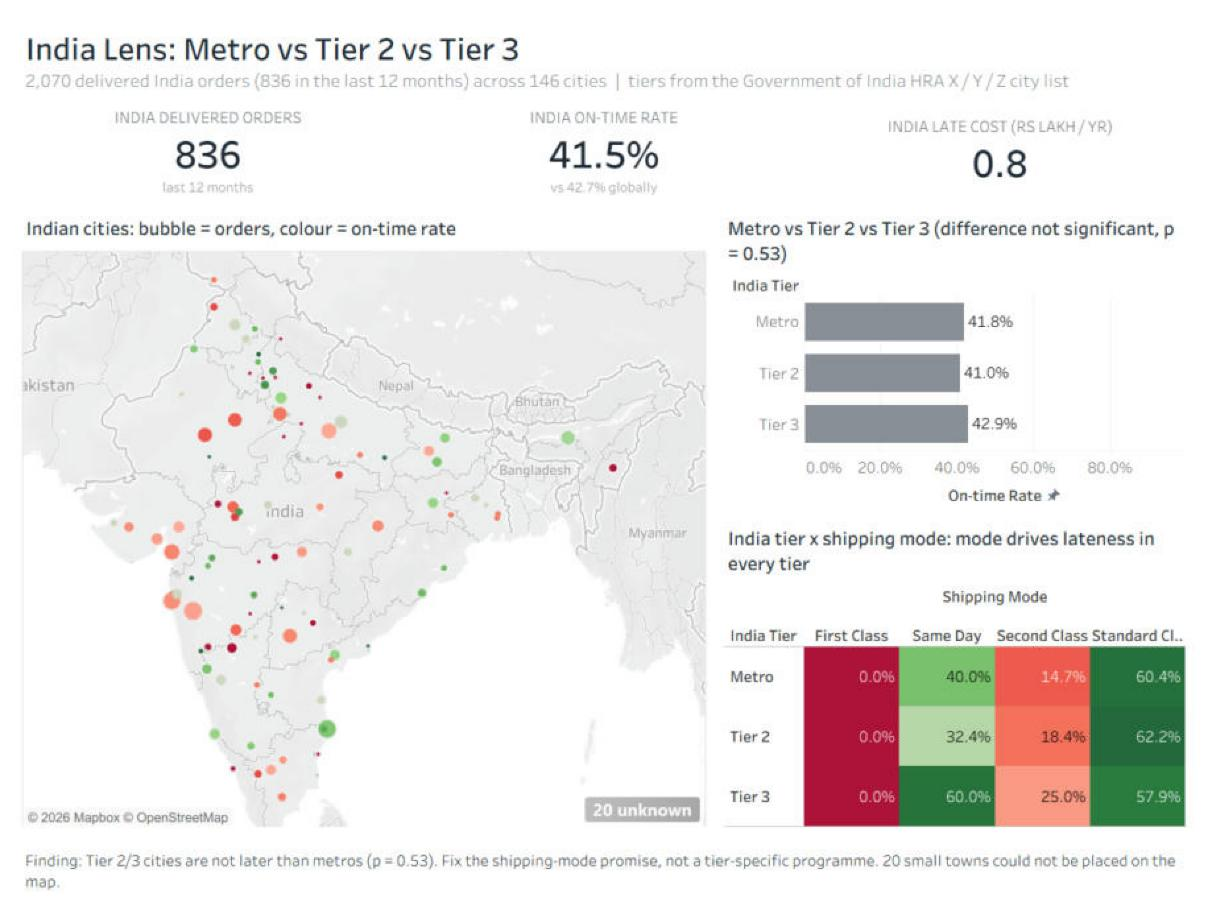
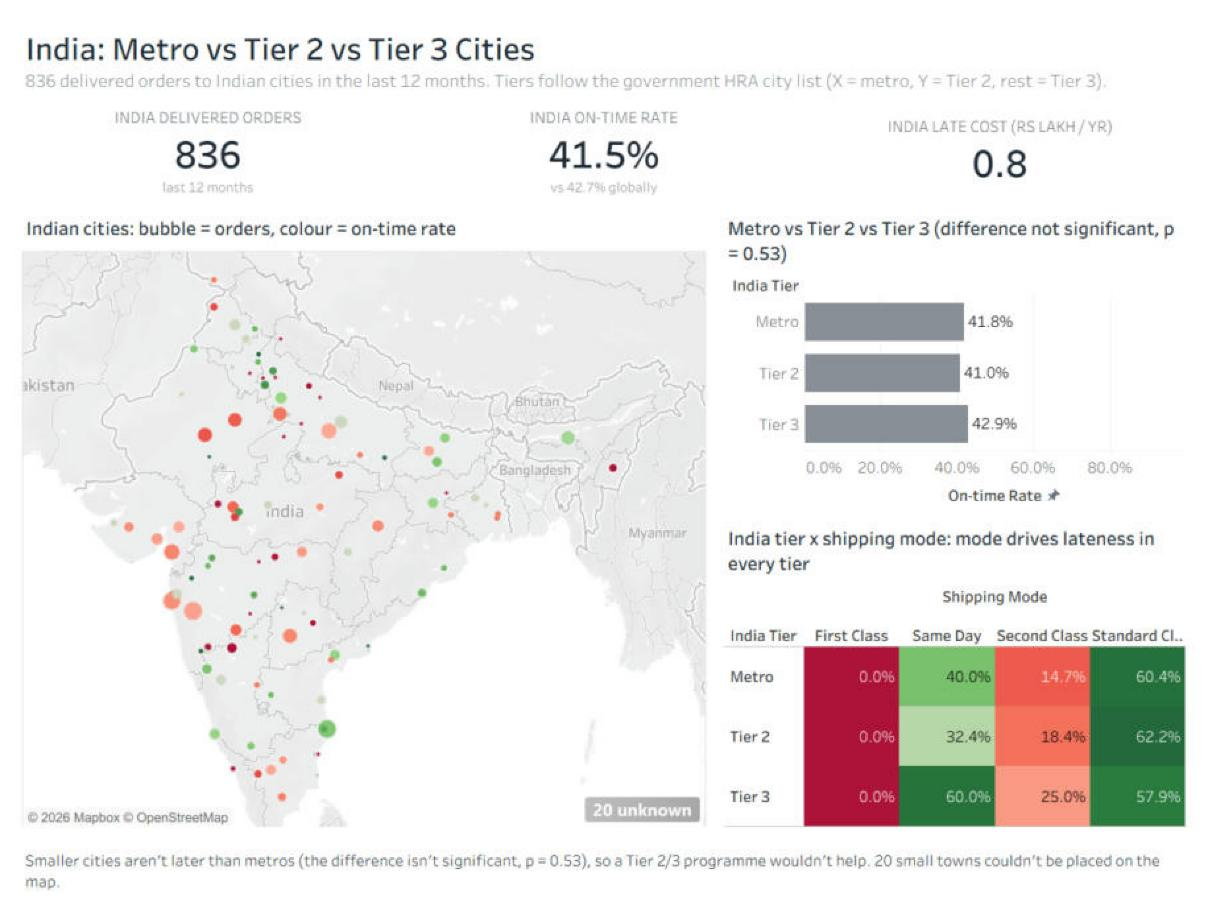
Update dashboard screenshots

diff --git a/README.md b/README.md
@@ -92,6 +92,8 @@ Live on Tableau Public: [Delivery Performance](https://public.tableau.com/app/pr
 
 ![India lens](reports/dashboard_india.jpg)
 
+![Cost simulator](reports/dashboard_cost.jpg)
+
 ## Running it
 
 1. Create a PostgreSQL database called `delivery_sla`.
